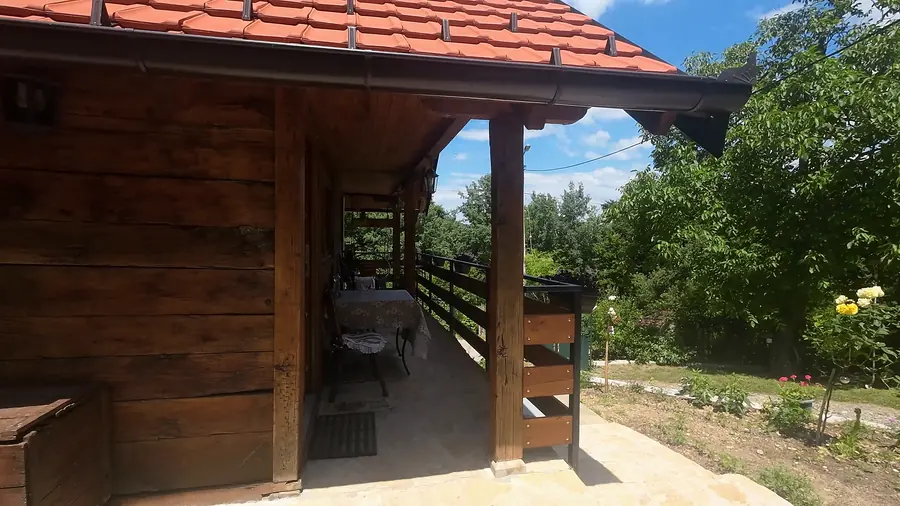
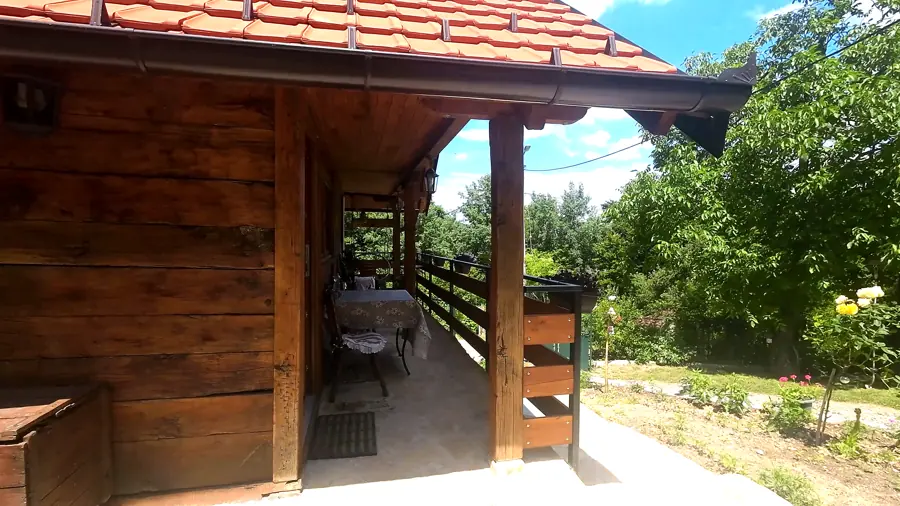
Kartica Odmor: svetlija fotografija terase

diff --git a/index.html b/index.html
@@ -357,7 +357,7 @@ footer a:hover{color:#fff}
     </div>
     <div class="exp">
       <article class="card rv" tabindex="0">
-        <img src="assets/img/terasa-bok.webp" alt="Natkrivena drvena terasa sa pogledom na baštu" loading="lazy">
+        <img src="assets/img/terasa-cela.webp" alt="Drvena kućica sa terasom celom dužinom" loading="lazy" style="object-position:50% 45%;filter:brightness(1.12) saturate(1.08)">
         <span class="num">01</span>
         <div class="txt">
           <h3>Odmor</h3>
